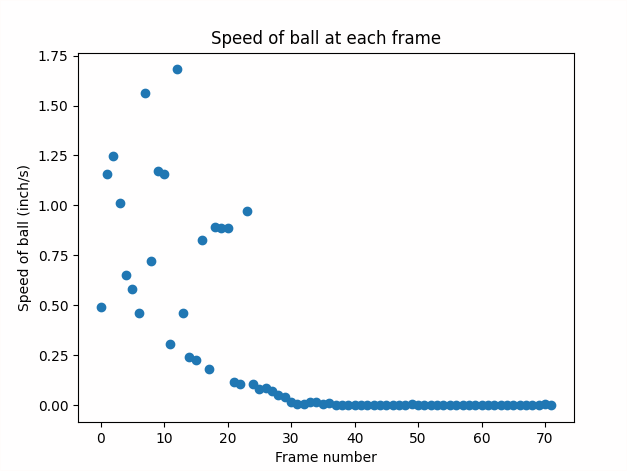
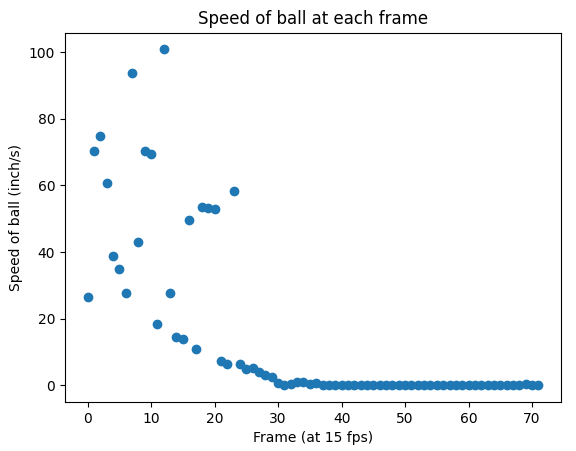
have all pictures

diff --git a/AnalyzeVideo.py b/AnalyzeVideo.py
@@ -87,7 +87,6 @@ def ShowBallCircle(difference, x, y, diameter):
     cv2.imshow("Center " + str(numFrames), differenceCopy)
     return
 
-
 '''
 #test convertFromDiameterToCartesion function
 x = 100
@@ -103,7 +102,7 @@ rho = 170
 print(PolarToCartesian(r,theta,rho))
 '''
 frameRate = 15 #frames per second
-timeBetweenFrames = 60 / frameRate #in seconds
+timeBetweenFrames = 1 / frameRate #in seconds
 video_path = "./Video/video4.h264"
 video_object = cv2.VideoCapture(video_path)
 
@@ -118,13 +117,11 @@ while(ret) :
     numFrames += 1
     rgbFrames.append(frame)
     yiqFrames.append(rgb2yiq(frame))
-    '''
     # Press Q on keyboard to  exit
     #this makes the video play for some reason
     if cv2.waitKey(25) & 0xFF == ord('q'): 
       break
     cv2.imshow("Frame", frame)
-    '''
     #140 250 -> for video1
     #60 150 -> for video2
     #70 150 -> for video 3
@@ -141,7 +138,7 @@ while(ret) :
     if valid:
         if PrintFrame == numFrames:
             cv2.imshow("One Connected Component: " + str(numFrames), difference)           
-        #difference = binary_closing(difference, iterations=10).astype(float)
+        #difference = binary_closing(difference, iterations=10).astype(float) #this has neglible effect on outcome
         if PrintFrame == numFrames:
             cv2.imshow("After closing: " + str(numFrames), difference)
         nb_components, output, stats, centroids = cv2.connectedComponentsWithStats(difference.astype(np.uint8), connectivity=8)
@@ -163,11 +160,12 @@ for difference in differenceFrames:
     differenceCombined = differenceCombined + difference
 
 cv2.imshow("Difference Combined", differenceCombined)
-
 results = []
+DiameterArray = []
 for stats in frameStats:
     results.append(convertFromDiameterToCartesion(stats[1], stats[2], stats[3]))
-
+    DiameterArray.append(stats[3])
+print(DiameterArray)
 print("Total distance traveled: " + str(Distance(results[0], results[-1])))
 
 DistanceArray = [] #distance between ith frame and ith + 1 frame
@@ -188,19 +186,19 @@ print("Total Distance traveled between first and last frame: " + str(Distance(re
 print("Accumulative distance traveled:" + str(totalDistance))
 
 plt.title("Accumulative Distance Travled")
-plt.xlabel("Frame")
+plt.xlabel("Frame (at 15 fps)")
 plt.ylabel("Distance (inches)")
 plt.scatter(frameArray,TotalDistanceArray)
 plt.show()
 
 plt.title("Distance Traveled between each Frame")
-plt.xlabel("Frame (15 fps)")
+plt.xlabel("Frame (at 15 fps)")
 plt.ylabel("Distance (inches)")
 plt.scatter(frameArray, DistanceArray)
 plt.show()
 
 plt.title("Speed of ball at each frame")
-plt.xlabel("Frame number")
+plt.xlabel("Frame (at 15 fps)")
 plt.ylabel("Speed of ball (inch/s)")
 plt.scatter(frameArray,speedArray)
 plt.show()
